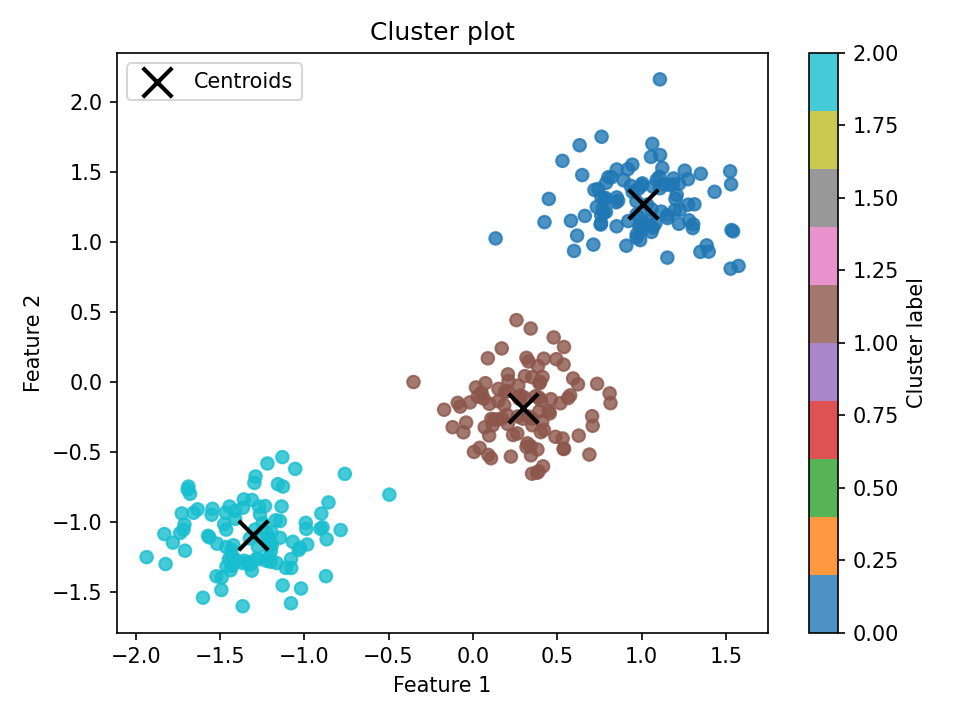
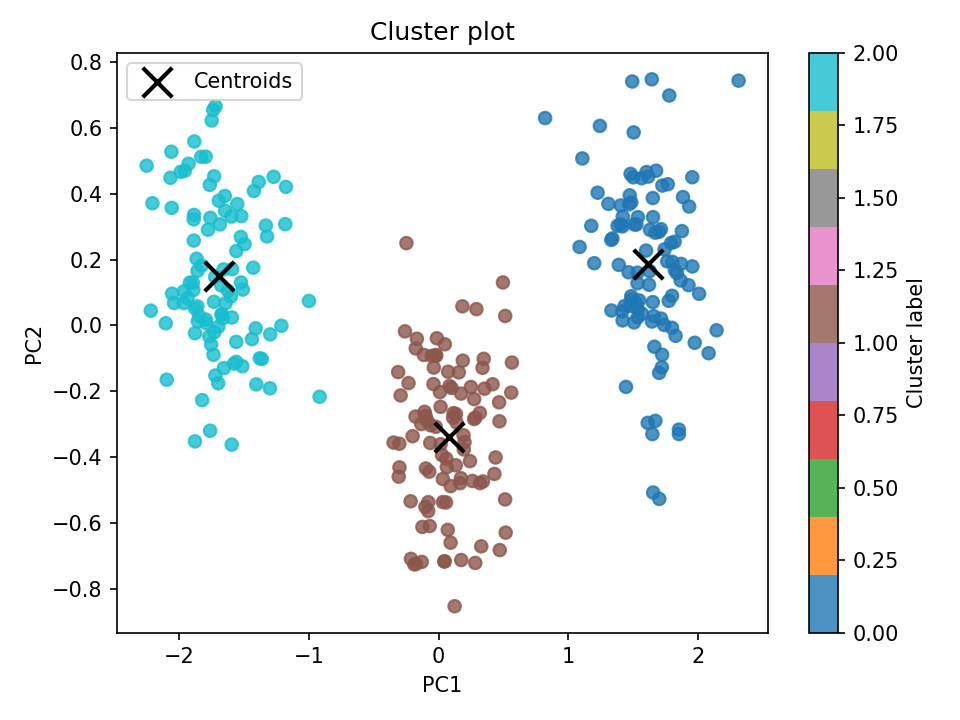
improved pca-plotting

diff --git a/cluster_maker/interface.py b/cluster_maker/interface.py
@@ -29,7 +29,7 @@ def run_clustering(
     random_state: Optional[int] = None,
     compute_elbow: bool = False,
     elbow_k_values: Optional[List[int]] = None,
-    use_pca: bool = False
+    use_pca: bool = True
 ) -> Dict[str, Any]:
     """
     High-level function to run the full clustering workflow.
@@ -90,6 +90,8 @@ def run_clustering(
         X_temp_df = pd.DataFrame(X, columns=X_df.columns)
         X_pca_df = apply_pca(X_temp_df, n_components=2)
         X = X_pca_df.to_numpy(dtype=float)
+        x_label_pca = "PC1"
+        y_label_pca = "PC2"
 
     # Run clustering
     if algorithm == "kmeans":
@@ -118,7 +120,9 @@ def run_clustering(
         export_to_csv(df, output_path, delimiter=",", include_index=False)
 
     # Plot clusters (2D)
-    fig_cluster, _ = plot_clusters_2d(X, labels, centroids=centroids, title="Cluster plot")
+    fig_cluster, _ = plot_clusters_2d(X, labels, centroids=centroids, title="Cluster plot",
+                                      x_label=(x_label_pca if use_pca else "Feature 1"),
+                                      y_label=(y_label_pca if use_pca else "Feature 2"))
 
     # Optional elbow curve
     fig_elbow = None

diff --git a/cluster_maker/plotting_clustered.py b/cluster_maker/plotting_clustered.py
@@ -17,6 +17,8 @@ def plot_clusters_2d(
     labels: np.ndarray,
     centroids: Optional[np.ndarray] = None,
     title: Optional[str] = None,
+    x_label: str = "Feature 1",
+    y_label: str = "Feature 2"
 ) -> Tuple[plt.Figure, plt.Axes]:
     """
     Plot clustered data in 2D using the first two features.
@@ -50,8 +52,8 @@ def plot_clusters_2d(
         )
         ax.legend()
 
-    ax.set_xlabel("Feature 1")
-    ax.set_ylabel("Feature 2")
+    ax.set_xlabel(x_label)
+    ax.set_ylabel(y_label)
     if title:
         ax.set_title(title)
 
